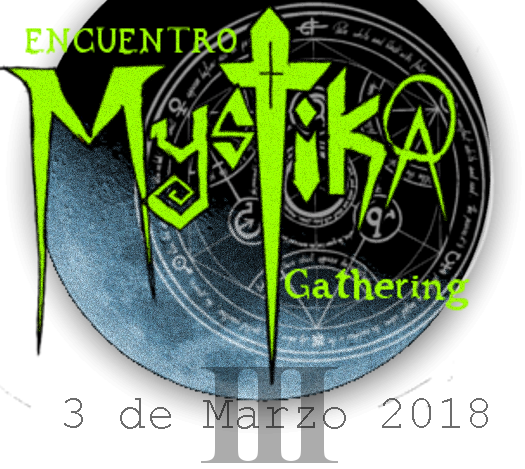
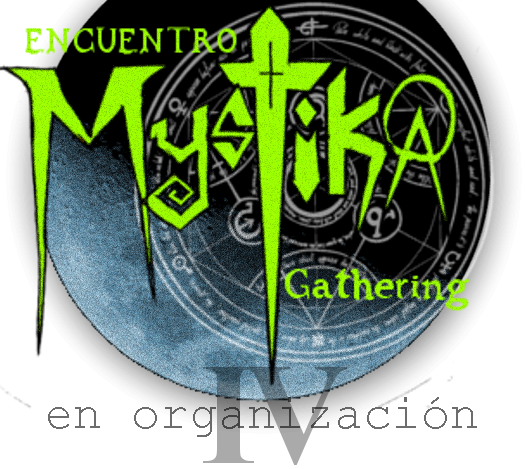
hoi

diff --git a/org.htm b/org.htm
@@ -1,0 +1,80 @@
+<!DOCTYPE html>
+<html>
+<head>
+<title>Mystika</title>
+<meta name="viewport" content="width=device-width, initial-scale=1.0">
+<meta name="mobile-web-app-capable" content="yes">
+<meta charset="utf-8">
+<link rel="stylesheet" href="style.css">
+</head>
+<body>
+
+    <header>
+      <a href="index.htm"><img class="header" src="img/avatar.png" alt=header width="300px" height="auto" style="margin:0"></a>
+    </header>
+    <hr style="color:#99F902">
+    <nav  hidden style="font-family:sans;font-size:130%">
+        <ul>
+            <a href="lugar.htm"><li>Lugar</li></a>
+            <a href="ritual.htm"><li>Ritual</li></a>
+            <a href="galeria.htm"><li>Galería</li></a>
+          </ul>
+    </nav>
+
+    <div align=center>
+      <div class="container">
+        <section>
+          <h1> Organización - Mystika IV</h1>
+
+
+            <img hidden src="img/ritual.png" class="pane" alt="ritual">
+            <p>Esta sección de la página es una plataforma para que todxs entendamos cómo organizar la proxima Mystika de una forma colectiva - colaborativa, y así podamos participar en el proceso.</p>
+            <p>Desde la vez pasada aprendimos a organizarnos por equipos de trabajo para así distribuir las tareas que son necesarias de llevar a cabo.</p>
+            <p>Cada Equipo / Comisión está encargada de cumplir un objetivo fundamental para que Mystika suceda, debe haber compromiso y un sentido de responsabilidad entre sus miembres. A continuación se explica el rol de cada comisión: </p>
+
+            <h3>Comisiones:</h3>
+            <ul>
+              <li>Exploración y Asentamiento</li>
+                <ol Objetivos:>
+                  <li>Encontrar un lugar con las condiciones optimass para realizar la proxima Mystika</li>
+                </ol>
+              <li>Esotérica</li>
+              <li>Autogestión</li>
+              <li>Medios y difusión</li>
+            </ul>
+
+            <ol>
+              <li>Lugar</li>
+              <li>Contenido & Actividades</li>
+
+            </ol>
+
+            <p style="color:#766F5F">Contacto: mystika@tutamail.com</p>
+        </section>
+      </div>
+    </div>
+
+    <div hidden class="footer">
+      <p><a class="link" href="Mystika.apk" style="font-size:120%"> Descargar App</a>mystika@tutamail.com</p>
+    </div>
+    <div class="lang">
+      <a href="en/index.htm"><img src="img/eng3.png" alt=language class="lang"></a>
+    </div>
+    <script>
+    var acc = document.getElementsByClassName("accordion");
+    var i;
+
+    for (i = 0; i < acc.length; i++) {
+        acc[i].onclick = function(){
+            this.classList.toggle("active");
+            var panel = this.nextElementSibling;
+            if (panel.style.display === "block") {
+                panel.style.display = "none";
+            } else {
+                panel.style.display = "block";
+            }
+        }
+    }
+    </script>
+    </body>
+    </html>

diff --git a/index.htm b/index.htm
@@ -25,10 +25,11 @@
 <div align=center>
   <div class="container">
     <section>
-      <p>
+      <p>Actualmente nos estamos empezando a organizar para manifestar Mystika IV, es necesario definir un lugar para el encuentro así como también una fecha, entre otros aspectos! Si usted quiere participar organizando el encuentro visite: <a href="mystika.ga/org" style="color:#99F902" >www.mystika.ga/org</a> </p>
+      <p hidden>
       Una vez más nos encontramos alrededor de las grandes fogatas: cuerpos y almas, de este lado y del otro. Para en conjunto alzar el velo, abrir un portal de comunicacion interdimensional y así acelerar el proyecto de sanación global.
       <br>Nuestra madre nos llama
-      <br>el universo observa<br><br><strong>3 de Marzo 2018</strong></p>
+      <br>el universo observa<br><br><strong>Fecha indefinida</strong></p>
 
       <button class="accordion">¿Que es Mystika?</button>
         <div class="panel">
